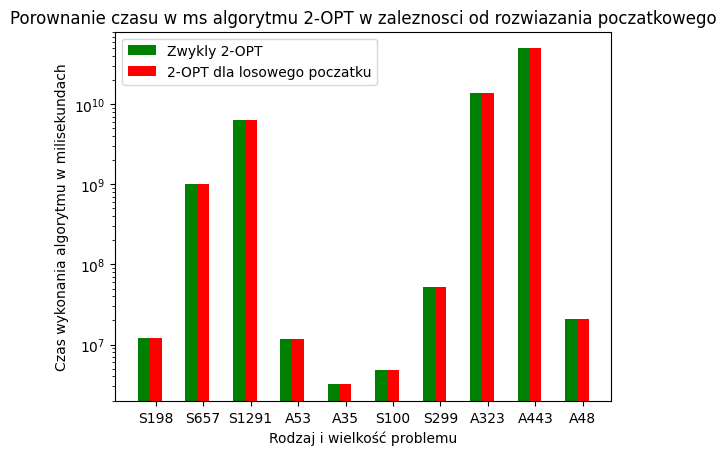
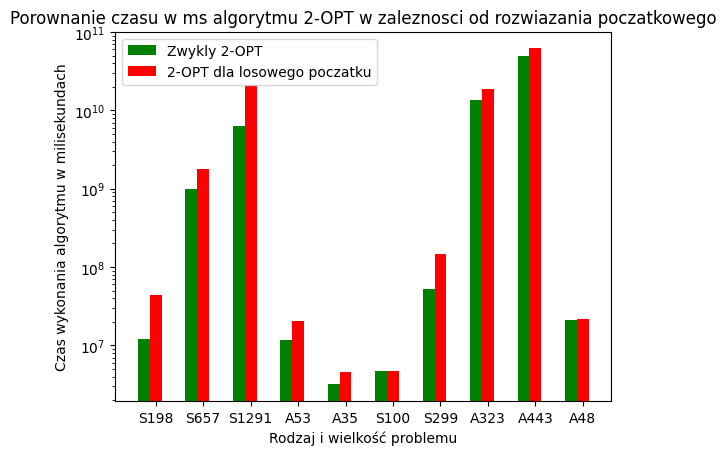
wykresy

diff --git a/wykresy/TwoOpt/wykres3.py b/wykresy/TwoOpt/wykres3.py
@@ -24,7 +24,7 @@ def draw():
     plt.title('Porownanie czasu algorytmu 2-OPT w zaleznosci od rozwiazania poczatkowego')
     plt.bar(r1 - l, to, color='green', width=l, label='Zwykly 2-OPT')
     plt.bar(r1, bto, color='red', width=l, label='2-OPT dla najblizszego sasiada od 1')
-    plt.bar(r1 + l, to, color='blue', width=l, label='2-OPT dla ulepszonego najblizszego sasiada')
+    plt.bar(r1 + l, bto2, color='blue', width=l, label='2-OPT dla ulepszonego najblizszego sasiada')
     plt.xticks([r + l for r in range(10)], names)
     plt.legend()
     plt.xlabel('Rodzaj i wielkość problemu')

diff --git a/wykresy/TwoOpt/wykres2.py b/wykresy/TwoOpt/wykres2.py
@@ -24,7 +24,7 @@ def draw():
     plt.title('Porownanie algorytmu 2-OPT w zaleznosci od rozwiazania poczatkowego')
     plt.bar(r1 - l, to, color='green', width=l, label='Zwykly 2-OPT')
     plt.bar(r1, bto, color='red', width=l, label='2-OPT dla najblizszego sasiada od 1')
-    plt.bar(r1 + l, to, color='blue', width=l, label='2-OPT dla ulepszonego najblizszego sasiada')
+    plt.bar(r1 + l, bto2, color='blue', width=l, label='2-OPT dla ulepszonego najblizszego sasiada')
     plt.xticks([r + l for r in range(10)], names)
     plt.legend()
     plt.xlabel('Rodzaj i wielkość problemu')

diff --git a/wykresy/TwoOpt/wykres5.py b/wykresy/TwoOpt/wykres5.py
@@ -21,7 +21,7 @@ def draw():
     r1 = np.arange(10)
     plt.title('Porownanie czasu w ms algorytmu 2-OPT w zaleznosci od rozwiazania poczatkowego')
     plt.bar(r1, to, color='green', width=l, label='Zwykly 2-OPT')
-    plt.bar(r1 + l, to, color='red', width=l, label='2-OPT dla losowego poczatku')
+    plt.bar(r1 + l, bto, color='red', width=l, label='2-OPT dla losowego poczatku')
     plt.xticks([r + l for r in range(10)], names)
     plt.legend()
     plt.xlabel('Rodzaj i wielkość problemu')

diff --git a/wykresy/TwoOpt/wykres4.py b/wykresy/TwoOpt/wykres4.py
@@ -21,7 +21,7 @@ def draw():
     r1 = np.arange(10)
     plt.title('Porownanie algorytmu 2-OPT w zaleznosci od rozwiazania poczatkowego')
     plt.bar(r1, to, color='green', width=l, label='Zwykly 2-OPT')
-    plt.bar(r1 + l, to, color='red', width=l, label='2-OPT dla losowego poczatku')
+    plt.bar(r1 + l, bto, color='red', width=l, label='2-OPT dla losowego poczatku')
     plt.xticks([r + l for r in range(10)], names)
     plt.legend()
     plt.xlabel('Rodzaj i wielkość problemu')
